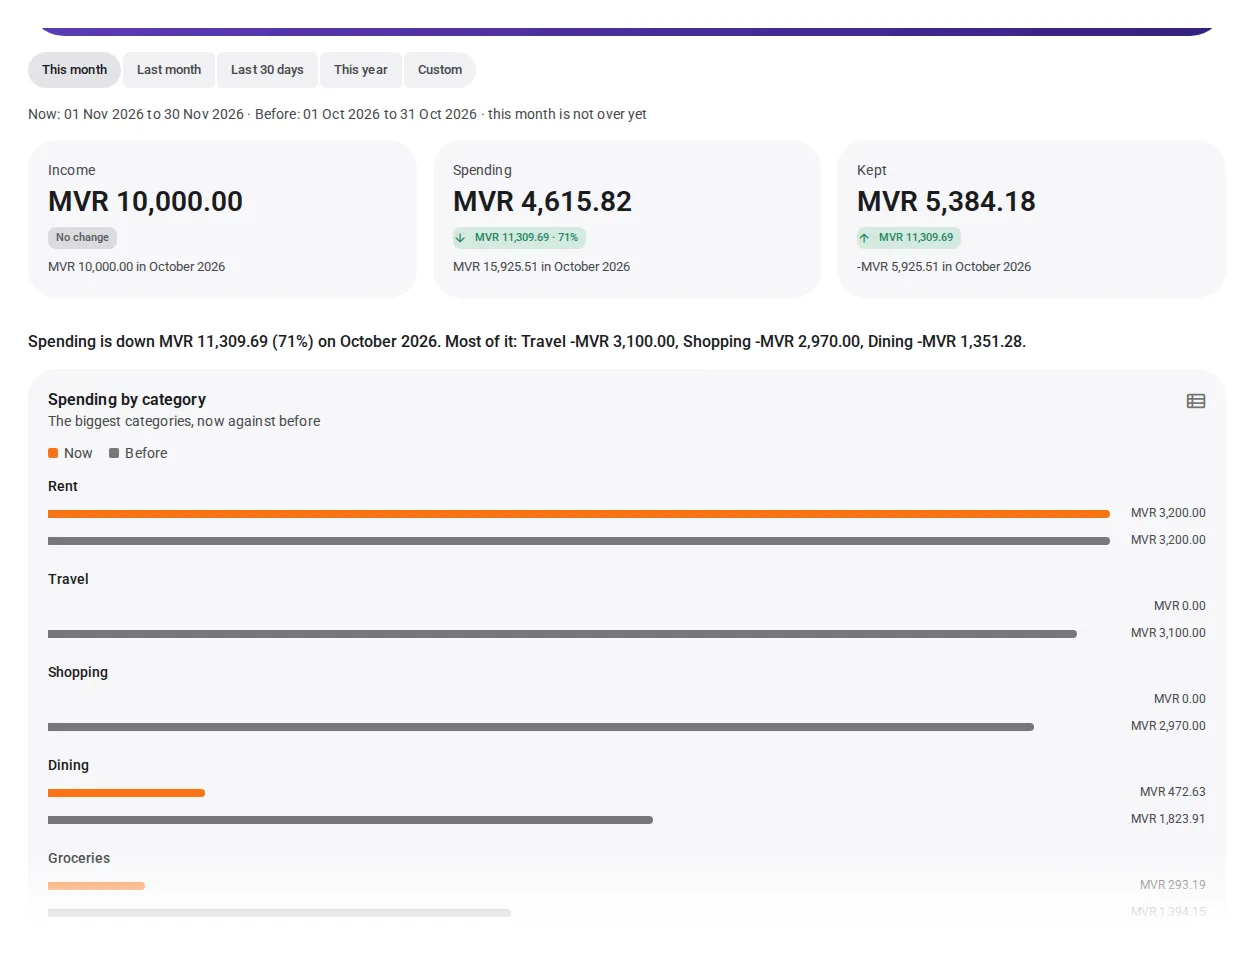
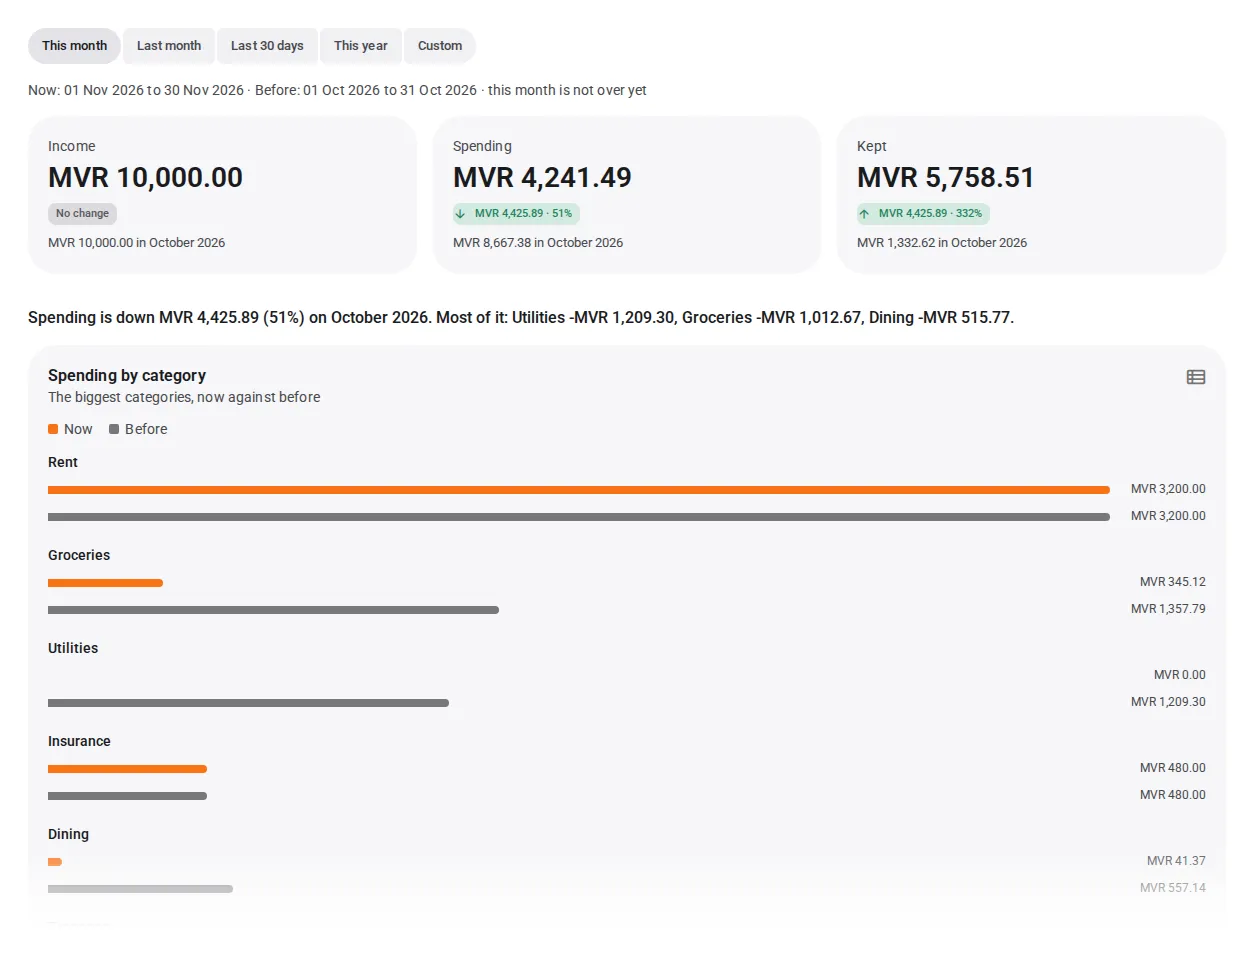
feat(web): each page's header links to the guides that explain it

diff --git a/apps/web/e2e/docs-shots.spec.ts b/apps/web/e2e/docs-shots.spec.ts
@@ -17,7 +17,7 @@ const OUT = "public/docs";
 const WIDTH = 1180; // the page content's width: the viewport is this plus the sidebar and margins
 const MAX_HEIGHT = 900;
 const PAD = 28; // breathing room round every shot
-const BANNER = 278; // the page banner's height (262px) and the gap under it
+const BANNER_GAP = 16; // the gap kept between the page banner and the shot
 
 test.use({ viewport: { width: WIDTH + 330, height: 1000 }, reducedMotion: "reduce" });
 
@@ -79,13 +79,22 @@ test("the screenshots for the guides", async ({ page, context }) => {
 	const sizes: Record<string, string> = {};
 	/** Save `name`.webp: the page's content below its banner (not the sidebar), or one element, at
 	 * most MAX_HEIGHT tall. */
-	async function shoot(name: string, target?: ReturnType<Page["locator"]>, banner = BANNER) {
+	async function shoot(name: string, target?: ReturnType<Page["locator"]>) {
 		await page.waitForTimeout(500);
 		const box = await (target ?? page.locator("main > .MuiContainer-root")).boundingBox();
 		expect(box, name).not.toBeNull();
 		let top = box!.y;
 		// skip the page banner: every page has the same one and it costs a third of the height
-		if (!target) top += banner;
+		if (!target) {
+			// the banner is the h1's nearest ancestor with the gradient background
+			const bottom = await page.locator("main h1").evaluate((h1) => {
+				let node: HTMLElement | null = h1 as HTMLElement;
+				while (node && !getComputedStyle(node).backgroundImage.includes("linear-gradient"))
+					node = node.parentElement;
+				return node ? node.getBoundingClientRect().bottom : 0;
+			});
+			top = Math.max(top, bottom + BANNER_GAP);
+		}
 		const clip = {
 			x: box!.x,
 			y: top,
@@ -110,7 +119,7 @@ test("the screenshots for the guides", async ({ page, context }) => {
 
 	await open(page, "/compare?preset=this_month");
 	await expect(page.getByRole("heading", { name: "Compare", level: 1 })).toBeVisible();
-	await shoot("compare", undefined, 225); // its banner is a little shorter
+	await shoot("compare");
 
 	console.log(`\nScreenshots written to ${OUT}:\n${JSON.stringify(sizes, null, 2)}`);
 });

diff --git a/apps/web/e2e/docs.spec.ts b/apps/web/e2e/docs.spec.ts
@@ -1,5 +1,5 @@
 import { expect, test } from "@playwright/test";
-import { open, signUp } from "./helpers";
+import { apiAs, open, signUp } from "./helpers";
 
 test("the Docs link opens the guides, and a guide links to the pages it describes", async ({
 	page,
@@ -120,4 +120,33 @@ test("the plan, budget and salary guides show live examples", async ({ page }) =
 		await box.scrollIntoViewIfNeeded();
 		await expect(box.getByText(text).first()).toBeVisible();
 	}
+});
+
+test("a page's header links to the guides that explain it", async ({ page, request }) => {
+	test.setTimeout(60_000);
+	const email = await signUp(page);
+	const api = await apiAs(request, email);
+	const account = await api.account("Main", "100");
+
+	await open(page, "/budget");
+	await expect(page.getByRole("link", { name: "Guide: Savings goals" })).toBeVisible();
+	await page.getByRole("link", { name: "Guide: Budget and spending limits" }).click();
+	await expect(page).toHaveURL(/\/docs\/budget$/);
+	await expect(
+		page.getByRole("heading", { name: "Budget and spending limits", level: 1 }),
+	).toBeVisible();
+	// the guide itself has no header link back to itself
+	await expect(page.getByRole("link", { name: "Guide: Budget and spending limits" })).toHaveCount(
+		0,
+	);
+
+	// one account's page has its own guide, not the list's
+	await open(page, `/accounts/${account.id}`);
+	await expect(page.getByRole("link", { name: "Guide: An account's page" })).toBeVisible();
+	await open(page, "/accounts");
+	await expect(page.getByRole("link", { name: "Guide: Accounts, cards and groups" })).toBeVisible();
+
+	// a page with no guide shows none
+	await open(page, "/vendors");
+	await expect(page.getByRole("link", { name: /^Guide:/ })).toHaveCount(0);
 });

diff --git a/apps/web/src/lib/docs/for-page.test.ts b/apps/web/src/lib/docs/for-page.test.ts
@@ -1,0 +1,37 @@
+import { describe, expect, it } from "vitest";
+import { GUIDES_FOR_PAGE, guidesForPath } from "./for-page";
+import { findDoc } from "./index";
+import { pageExists } from "./index";
+
+describe("GUIDES_FOR_PAGE", () => {
+	it("names only guides and pages that exist", () => {
+		for (const [page, slugs] of Object.entries(GUIDES_FOR_PAGE)) {
+			expect(pageExists(page), page).toBe(true);
+			for (const slug of slugs) expect(findDoc(slug), `${page}: ${slug}`).toBeDefined();
+		}
+	});
+});
+
+describe("guidesForPath", () => {
+	it("finds the guides for a page", () => {
+		expect(guidesForPath("/budget").map((d) => d.slug)).toEqual(["budget", "goals"]);
+		expect(guidesForPath("/plan").map((d) => d.slug)).toEqual(["month-plan"]);
+	});
+
+	it("ignores a trailing slash", () => {
+		expect(guidesForPath("/plan/").map((d) => d.slug)).toEqual(["month-plan"]);
+	});
+
+	it("sends any one account's page to its own guide, not the accounts list's", () => {
+		expect(guidesForPath("/accounts").map((d) => d.slug)).toEqual(["accounts"]);
+		expect(
+			guidesForPath("/accounts/6f0c9a52-1111-4222-8333-944455556666").map((d) => d.slug),
+		).toEqual(["account-page"]);
+	});
+
+	it("has none for a page without a guide, or for the guides themselves", () => {
+		expect(guidesForPath("/vendors")).toEqual([]);
+		expect(guidesForPath("/docs/budget")).toEqual([]);
+		expect(guidesForPath("/")).toEqual([]);
+	});
+});

diff --git a/apps/web/src/components/GuideLinks.tsx b/apps/web/src/components/GuideLinks.tsx
@@ -1,0 +1,37 @@
+import { useRouterState } from "@tanstack/react-router";
+import { guidesForPath } from "#/lib/docs/for-page";
+import { RouterLink } from "./RouterLinks";
+import Symbol from "./Symbol";
+
+/** In a page's header: a frosted pill for each guide that explains the page, such as
+ * "Guide: Budget and spending limits". Nothing for a page that has none. */
+export default function GuideLinks() {
+	const pathname = useRouterState({ select: (s) => s.location.pathname });
+	return guidesForPath(pathname).map((doc) => (
+		<RouterLink
+			key={doc.slug}
+			to="/docs/$slug"
+			params={{ slug: doc.slug }}
+			underline="none"
+			sx={{
+				display: "inline-flex",
+				alignItems: "center",
+				gap: 0.75,
+				height: 32,
+				px: 1.5,
+				borderRadius: "var(--shape-full)",
+				bgcolor: "rgb(255 255 255 / 0.16)",
+				color: "#fff",
+				fontSize: 13,
+				fontWeight: 500,
+				letterSpacing: "0.01em",
+				whiteSpace: "nowrap",
+				"&:hover": { bgcolor: "rgb(255 255 255 / 0.28)", color: "#fff" },
+				"&:focus-visible": { outline: "2px solid #fff", outlineOffset: 2 },
+			}}
+		>
+			<Symbol name="article" size={18} />
+			Guide: {doc.title}
+		</RouterLink>
+	));
+}

diff --git a/apps/web/src/lib/docs/for-page.ts b/apps/web/src/lib/docs/for-page.ts
@@ -1,0 +1,29 @@
+import { findDoc } from "./index";
+import type { Doc } from "./types";
+
+/**
+ * Which guides explain which page, so each page's header can link to them. Keyed by the page's
+ * address; an account's own page (`/accounts/<id>`) is handled apart. A page with no entry shows no
+ * link. A test checks every slug names a real guide.
+ */
+export const GUIDES_FOR_PAGE: Record<string, readonly string[]> = {
+	"/accounts": ["accounts"],
+	"/transactions": ["fixing-records"],
+	"/subscriptions": ["subscriptions", "varying-bills"],
+	"/budget": ["budget", "goals"],
+	"/plan": ["month-plan"],
+	"/pending": ["salary-split"],
+	"/import": ["import"],
+	"/compare": ["reports"],
+	"/trends": ["reports"],
+	"/net-worth": ["reports"],
+};
+
+const ACCOUNT_PAGE = /^\/accounts\/[^/]+$/;
+
+/** The guides for the page at `pathname`, in the order to show them. */
+export function guidesForPath(pathname: string): Doc[] {
+	const path = pathname.length > 1 ? pathname.replace(/\/+$/, "") : pathname;
+	const slugs = ACCOUNT_PAGE.test(path) ? ["account-page"] : (GUIDES_FOR_PAGE[path] ?? []);
+	return slugs.flatMap((slug) => findDoc(slug) ?? []);
+}

diff --git a/apps/web/src/components/PageHeader.tsx b/apps/web/src/components/PageHeader.tsx
@@ -4,6 +4,7 @@ import Typography from "@mui/material/Typography";
 import type { ReactNode } from "react";
 import { type Accent } from "#/lib/m3";
 import GlassPill from "./GlassPill";
+import GuideLinks from "./GuideLinks";
 import ShapeTile from "./ShapeTile";
 import Symbol from "./Symbol";
 
@@ -116,19 +117,24 @@ export default function PageHeader({
 				)}
 			</Box>
 
-			{stats && stats.length > 0 && (
-				<Stack
-					direction="row"
-					useFlexGap
-					sx={{ position: "relative", mt: 2.5, flexWrap: "wrap", gap: 1 }}
-				>
-					{stats.map((s) => (
-						<GlassPill key={s.label} symbol={s.symbol}>
-							{s.label}
-						</GlassPill>
-					))}
-				</Stack>
-			)}
+			<Stack
+				direction="row"
+				useFlexGap
+				sx={{
+					position: "relative",
+					mt: 2.5,
+					flexWrap: "wrap",
+					gap: 1,
+					"&:empty": { display: "none" },
+				}}
+			>
+				{stats?.map((s) => (
+					<GlassPill key={s.label} symbol={s.symbol}>
+						{s.label}
+					</GlassPill>
+				))}
+				<GuideLinks />
+			</Stack>
 		</Box>
 	);
 }

diff --git a/CLAUDE.md b/CLAUDE.md
@@ -137,7 +137,7 @@ Models use a deterministic constraint `NAMING_CONVENTION` (`models/base.py`), an
 - Tables: every list goes through `components/ResponsiveTable.tsx`. In table mode both the wide table and the narrow card list draw each row as its own rounded bar (`ROW_FILL`, one tonal step above the card, so it shows in light mode too): the wide table does it with `borderSpacing`, tinted cells and the row's corners on its first and last cell, so hover and selection tint the cells (`.Mui-selected`) rather than the row. Don't add row borders or row backgrounds in a page's `renderRow`.
 - Navigation: `lib/nav.ts` lists every destination (`NAV_ITEMS`, grouped). Wide screens show them all in the sidebar (`SideNav`); narrow screens show the four marked `bottom` (Dashboard, Transactions, Accounts, Budget) in the bottom bar plus **More** (`NavButton` in `NavItem.tsx`), which opens a bottom sheet (`MoreSheet` in `BottomNav.tsx`) with every destination grouped like the sidebar, as a grid of the same items; picking one closes it, and More shows as the current tab on any page outside the four (`inBottomBar`). Badges (Pending's count) show on the item in the sheet and add up on More. So a new destination needs nothing for phones: it appears in the sheet; give it `bottom` only if it should replace one of the four. The sheet slides on MUI's plain curve, not the `linear()` spring, which Safari animates badly.
 - Dashboard (`/dashboard`, the home page) and charts: the charts are hand-drawn, not a library (`components/charts/`): SVG only for lines and washes with non-scaling strokes, everything with text (axis labels, dots, tooltips) in HTML on top. They follow the dataviz rules: 2px lines, bars at most 24px with a 4px rounded tip, hairline solid grid, a legend for two or more series, a hover/focus readout, and a "show as a table" toggle on every chart card. Chart colours are `--chart-income`, `--chart-expense` and `--chart-line` (`CHART_LIGHT` / `CHART_DARK` in `lib/m3.ts`), validated with the palette checker; dark mode has its own steps. Income and expense are green and orange, not red, because red/green fail for deutan colour vision. Net worth comes from `GET /stats/balance-trend` (computed from transactions on demand, each account at its current manual rate); income/expense per month from `GET /stats/monthly`.
-- **Docs** (`/docs` and `/docs/$slug`, `routes/_protected/docs.index.tsx` and `docs.$slug.tsx`, sidebar group Help, icon `article`) is the in-app guide to what each feature is and how to use it. **A guide is data, not a page**: `lib/docs/<name>.ts` exports a `Doc` (`slug`, `title`, `summary`, `symbol`, `accent`, `where` links and `blocks`), `lib/docs/index.ts` lists it in `DOCS`, and the index and article pages draw it. Blocks are `h2` (with an `id`, which feeds the "On this page" list), `p`, `steps` (numbered), `list`, `callout` (tip, note or warning), `example` (a worked table) and `faq`; text may use `**bold**` for the name of something on screen and `[label](/page)` for a link that stays inside the app (`inlineSegments`; `DocBlocks` renders it with `RouterLink`, and **a test fails when a link points at a page that does not exist**, `pageExists`: every sidebar destination, `/settings`, `/profile`, `/notifications` and the guides themselves), and nothing else. **Link the first mention of a page in each section** so the guides are easy to move around in. `DocBlocks` is the one renderer, so every guide looks the same. A test checks every guide: unique slugs, unique heading ids, balanced `**`, links to real pages, and unique block and item text (it is the React key, since react-doctor bans index keys). **To add a guide**: write the file, import it into `DOCS`, and keep it in step with the feature (a guide that is wrong is worse than none). Guides so far, in the index order (setting up, bills, planning, then reports): Accounts, cards and groups; An account's page; Import a bank statement; Refunds, transfers and corrections; Subscriptions and recurring bills; Bills that change each month; Budget and spending limits; Savings goals; Month plan and available to spend; Split your salary; Reports (Compare, Trends, Net worth, needs and wants). Each file names the CLAUDE.md paragraphs it must stay in step with. **Search** (`searchDocs` in `lib/docs/search.ts`, the box on the Docs page, `?q=` in the URL): a guide matches when it contains every word typed, in any order, ignoring case and the `**`/link markup, across its title, summary and every block; title matches rank first, then the summary, then how often the body mentions the words; a match found only in the body shows its section and a passage, and the card opens the guide at that section (`#id`). **Screenshots** are an `image` block (`src` = `/docs/<name>.webp`, `alt`, real `width` and `height` so the page does not jump, optional `caption`; `Shot` in `DocBlocks` draws it lazy and outlined) and live in `apps/web/public/docs/`, which the build copies into the image. **They are made, not hand-captured**: `just docs-shots` (`e2e/docs-shots.spec.ts`, which `playwright.config.ts` leaves out of every other run through `DOCS_SHOTS`) seeds a user (`shots@example.com`, the seed's made-up data, `app.seed --email`) in the e2e database, adds a credit card with a statement through the API, signs in, and for each screen clips the page's content (not the sidebar, and below the banner, `BANNER`) to at most 900 px tall, adds `PAD` (28 px) of the page's own background all round so rounded corners are not cut off (a shot cut at the maximum height also fades out at the bottom), and saves a **WebP converted by Chromium's own canvas** (no image library installed), printing each file's size so the `width`/`height` of its block can be copied; they come to 18 to 50 KB each. **Light mode only.** One so far (`compare` in Reports, a whole page that depends on loader data); to add one, add a `shoot(...)` to the spec, run `just docs-shots`, and put an image block in the guide. A test checks every block's file exists, is a `.webp` under 150 KB, has a real alt, and is used once; the search reads alt and caption. Re-shoot only when a screen a guide shows has really changed, since each new version stays in git history. **Live examples** are the alternative to a screenshot for a self-contained piece of the app: a `demo` block (`id`, `title`, optional `caption`) draws the **real component** with made-up data from `lib/docs/demo-data.ts`, so it can never go stale, follows dark mode and the theme, reflows on a phone and is real text. It sits in a dashed frame labelled "Example with made-up data", inside an `inert` box with `pointer-events: none`, so nothing in it can be focused or pressed and it sends nothing. An id lives in `lib/docs/demo-ids.ts` (`DEMO_IDS`) and its component in `components/docs/Demos.tsx` (a `Record<DemoId, ...>`, so the type requires both); the component must be presentational (props only, no loader, server function or app shell). Four so far, all replacing screenshots: `card-statement` (`CardStatementPanel`, Accounts guide), `plan-agenda` (`PlanAgenda` fed by `planDays(planDemo)` in the card the page draws it in, Month plan guide), `budget-limits` (`BudgetSummary` and four `BudgetLineCard`s, Budget guide) and `salary-rules` (the whole `SalaryRulesCard`, whose dialogs only mount when opened, Salary guide). The fixtures are typed against the generated API types, so a schema change breaks them at compile time instead of leaving a stale example. Prefer a demo for a piece built from props and a screenshot only for a whole page. Not built: a link to the right guide from each feature's page, dark-mode screenshots, other guides.
+- **Docs** (`/docs` and `/docs/$slug`, `routes/_protected/docs.index.tsx` and `docs.$slug.tsx`, sidebar group Help, icon `article`) is the in-app guide to what each feature is and how to use it. **A guide is data, not a page**: `lib/docs/<name>.ts` exports a `Doc` (`slug`, `title`, `summary`, `symbol`, `accent`, `where` links and `blocks`), `lib/docs/index.ts` lists it in `DOCS`, and the index and article pages draw it. Blocks are `h2` (with an `id`, which feeds the "On this page" list), `p`, `steps` (numbered), `list`, `callout` (tip, note or warning), `example` (a worked table) and `faq`; text may use `**bold**` for the name of something on screen and `[label](/page)` for a link that stays inside the app (`inlineSegments`; `DocBlocks` renders it with `RouterLink`, and **a test fails when a link points at a page that does not exist**, `pageExists`: every sidebar destination, `/settings`, `/profile`, `/notifications` and the guides themselves), and nothing else. **Link the first mention of a page in each section** so the guides are easy to move around in. `DocBlocks` is the one renderer, so every guide looks the same. A test checks every guide: unique slugs, unique heading ids, balanced `**`, links to real pages, and unique block and item text (it is the React key, since react-doctor bans index keys). **To add a guide**: write the file, import it into `DOCS`, and keep it in step with the feature (a guide that is wrong is worse than none). Guides so far, in the index order (setting up, bills, planning, then reports): Accounts, cards and groups; An account's page; Import a bank statement; Refunds, transfers and corrections; Subscriptions and recurring bills; Bills that change each month; Budget and spending limits; Savings goals; Month plan and available to spend; Split your salary; Reports (Compare, Trends, Net worth, needs and wants). Each file names the CLAUDE.md paragraphs it must stay in step with. **Search** (`searchDocs` in `lib/docs/search.ts`, the box on the Docs page, `?q=` in the URL): a guide matches when it contains every word typed, in any order, ignoring case and the `**`/link markup, across its title, summary and every block; title matches rank first, then the summary, then how often the body mentions the words; a match found only in the body shows its section and a passage, and the card opens the guide at that section (`#id`). **Screenshots** are an `image` block (`src` = `/docs/<name>.webp`, `alt`, real `width` and `height` so the page does not jump, optional `caption`; `Shot` in `DocBlocks` draws it lazy and outlined) and live in `apps/web/public/docs/`, which the build copies into the image. **They are made, not hand-captured**: `just docs-shots` (`e2e/docs-shots.spec.ts`, which `playwright.config.ts` leaves out of every other run through `DOCS_SHOTS`) seeds a user (`shots@example.com`, the seed's made-up data, `app.seed --email`) in the e2e database, adds a credit card with a statement through the API, signs in, and for each screen clips the page's content (not the sidebar, and below the banner, `BANNER`) to at most 900 px tall, adds `PAD` (28 px) of the page's own background all round so rounded corners are not cut off (a shot cut at the maximum height also fades out at the bottom), and saves a **WebP converted by Chromium's own canvas** (no image library installed), printing each file's size so the `width`/`height` of its block can be copied; they come to 18 to 50 KB each. **Light mode only.** One so far (`compare` in Reports, a whole page that depends on loader data); to add one, add a `shoot(...)` to the spec, run `just docs-shots`, and put an image block in the guide. A test checks every block's file exists, is a `.webp` under 150 KB, has a real alt, and is used once; the search reads alt and caption. Re-shoot only when a screen a guide shows has really changed, since each new version stays in git history. **Live examples** are the alternative to a screenshot for a self-contained piece of the app: a `demo` block (`id`, `title`, optional `caption`) draws the **real component** with made-up data from `lib/docs/demo-data.ts`, so it can never go stale, follows dark mode and the theme, reflows on a phone and is real text. It sits in a dashed frame labelled "Example with made-up data", inside an `inert` box with `pointer-events: none`, so nothing in it can be focused or pressed and it sends nothing. An id lives in `lib/docs/demo-ids.ts` (`DEMO_IDS`) and its component in `components/docs/Demos.tsx` (a `Record<DemoId, ...>`, so the type requires both); the component must be presentational (props only, no loader, server function or app shell). Four so far, all replacing screenshots: `card-statement` (`CardStatementPanel`, Accounts guide), `plan-agenda` (`PlanAgenda` fed by `planDays(planDemo)` in the card the page draws it in, Month plan guide), `budget-limits` (`BudgetSummary` and four `BudgetLineCard`s, Budget guide) and `salary-rules` (the whole `SalaryRulesCard`, whose dialogs only mount when opened, Salary guide). The fixtures are typed against the generated API types, so a schema change breaks them at compile time instead of leaving a stale example. Prefer a demo for a piece built from props and a screenshot only for a whole page. **Each page links to its guides**: `PageHeader` shows a frosted pill "Guide: <title>" for every guide that explains the page (`GuideLinks`, `useRouterState` for the path), taken from `GUIDES_FOR_PAGE` in `lib/docs/for-page.ts` (`/accounts` Accounts, cards and groups; `/accounts/<id>` An account's page through `guidesForPath`; `/transactions` Refunds, transfers and corrections; `/subscriptions` Subscriptions and Bills that change; `/budget` Budget and Savings goals; `/plan` Month plan; `/pending` Split your salary; `/import`; `/compare`, `/trends` and `/net-worth` Reports). It needs no change to a page: add a route to the map, and a test checks every key is a real page and every slug a real guide. A page with no entry (vendors, tags, settings...) shows none, and the guides themselves never do. `docs-shots` finds a page's banner by its gradient (not a fixed height), so a banner that grows a row does not spoil a shot. Not built: dark-mode screenshots, other guides (Places, Backup, Tags), a link from Settings' cards to the guide for each.
 - **Shape morph (a universal rule):** anything that can be hovered or focused (cards, pills, chips, nav items, buttons, the search bar) rests at one corner token and springs to the next, less rounded one under the pointer or focus. Use `morph("xl")` (cards, 28px to 16px) or `morph("24px", "md")` (a pill, 24px to 12px) from `lib/shape.ts` instead of writing a radius by hand; MUI buttons, icon buttons and `Card` already do it through `theme.ts`. A pill rests at half its height, not `full` (999px), or the corners would not start moving until the spring's last frames. If the element sets its own `transition`, start it with `MORPH_TRANSITION`.
 - Imports use the `#/` alias for `src/`. `routeTree.gen.ts` is generated, so don't edit it.
 - New `@mui/icons-material` icons must be added to `optimizeDeps.include` in `vite.config.ts`. Without that, dev mode re-optimises mid-session and throws a duplicate-React "Invalid hook call".
